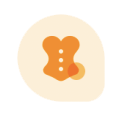
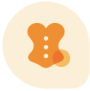
样式完工

diff --git a/pages/bodyShape/bodyShape.js b/pages/bodyShape/bodyShape.js
@@ -16,25 +16,25 @@ Page({
    styles: [
       {
         title: '草莓型身材（T型）',
-        url: '/images/style1.jpg',
+        url: '/images/bodyShape/style1.jpg',
         dsc: '肩膀宽或厚，手臂粗壮，骨架大，上身宽，下身细，身材呈倒三角形，呈草莓形状。',
         tip: '上窄下宽，扬长避短，注意下半身亮点打造，适合伞裙或阔腿裤，适合v领合身肩线款。\n 避免落肩袖，泡泡袖，垫肩（可能会让肩膀看起来更宽呜呜(つД`)）。'
       },
       {
         title: '矩形身材（H型）',
-        url: '/images/style2.jpg',
+        url: '/images/bodyShape/style2.jpg',
         dsc: '胸部，腰部和臀部尺码相差不大，髋骨也比较窄小，没有明显的腰部曲线。',
         tip: '一定要尝试人为制造腰线！！\n 1.比如用材质挺括的、下摆的高腰裙或A字裙 来制造腰胯的宽度差；\n 2.通过腰带或腰封制造腰线；\n 3.用层次感中和扁平，如长外套；\n 4.或通过加肩宽、胯宽的方法，如加肩垫然后搭配高腰。'
       },
       {
         title: '梨形身材（A型）',
-        url: '/images/style3.jpg',
+        url: '/images/bodyShape/style3.jpg',
         dsc: '一般上身相对较瘦，臀宽腰细腿粗。',
         tip: '弱化下半身，重点移至上半身，稍微要让上半身看起来有肉一些，显得身材匀称。\n 适合有肩部设计的衣服，增加上半身的力量感。\n 避免穿过于净身的下装，可以穿高腰的小A字群或阔腿裤等。也可以尝试oversize风格的穿搭，让上半身显得不那么单薄，同时适当的小面积印花设计的上装也能让把关注点放在上半身。'
       },
       {
         title: '沙漏型身材（X型）',
-        url: '/images/style4.jpg',
+        url: '/images/bodyShape/style4.jpg',
         dsc: '肩围与臀围尺码基本一致，匀称身形，腰围较细，三围比例适中，并且有明显的腰部曲线。',
         tip: ' 发挥优点，呈现曲线优势，突出自己的小蛮腰。\n 不是特别丰满的X型身材穿搭选择较多，但不适宜穿过于紧身的下装，因为这样会使下身显得更粗壮，且应避开如垫肩、泡泡袖类会使肩线扩大，身材比例失衡的上装。\n &&较丰满的mm在选择面料的时候不要选太光面有膨胀感的材质哦~'
       }
